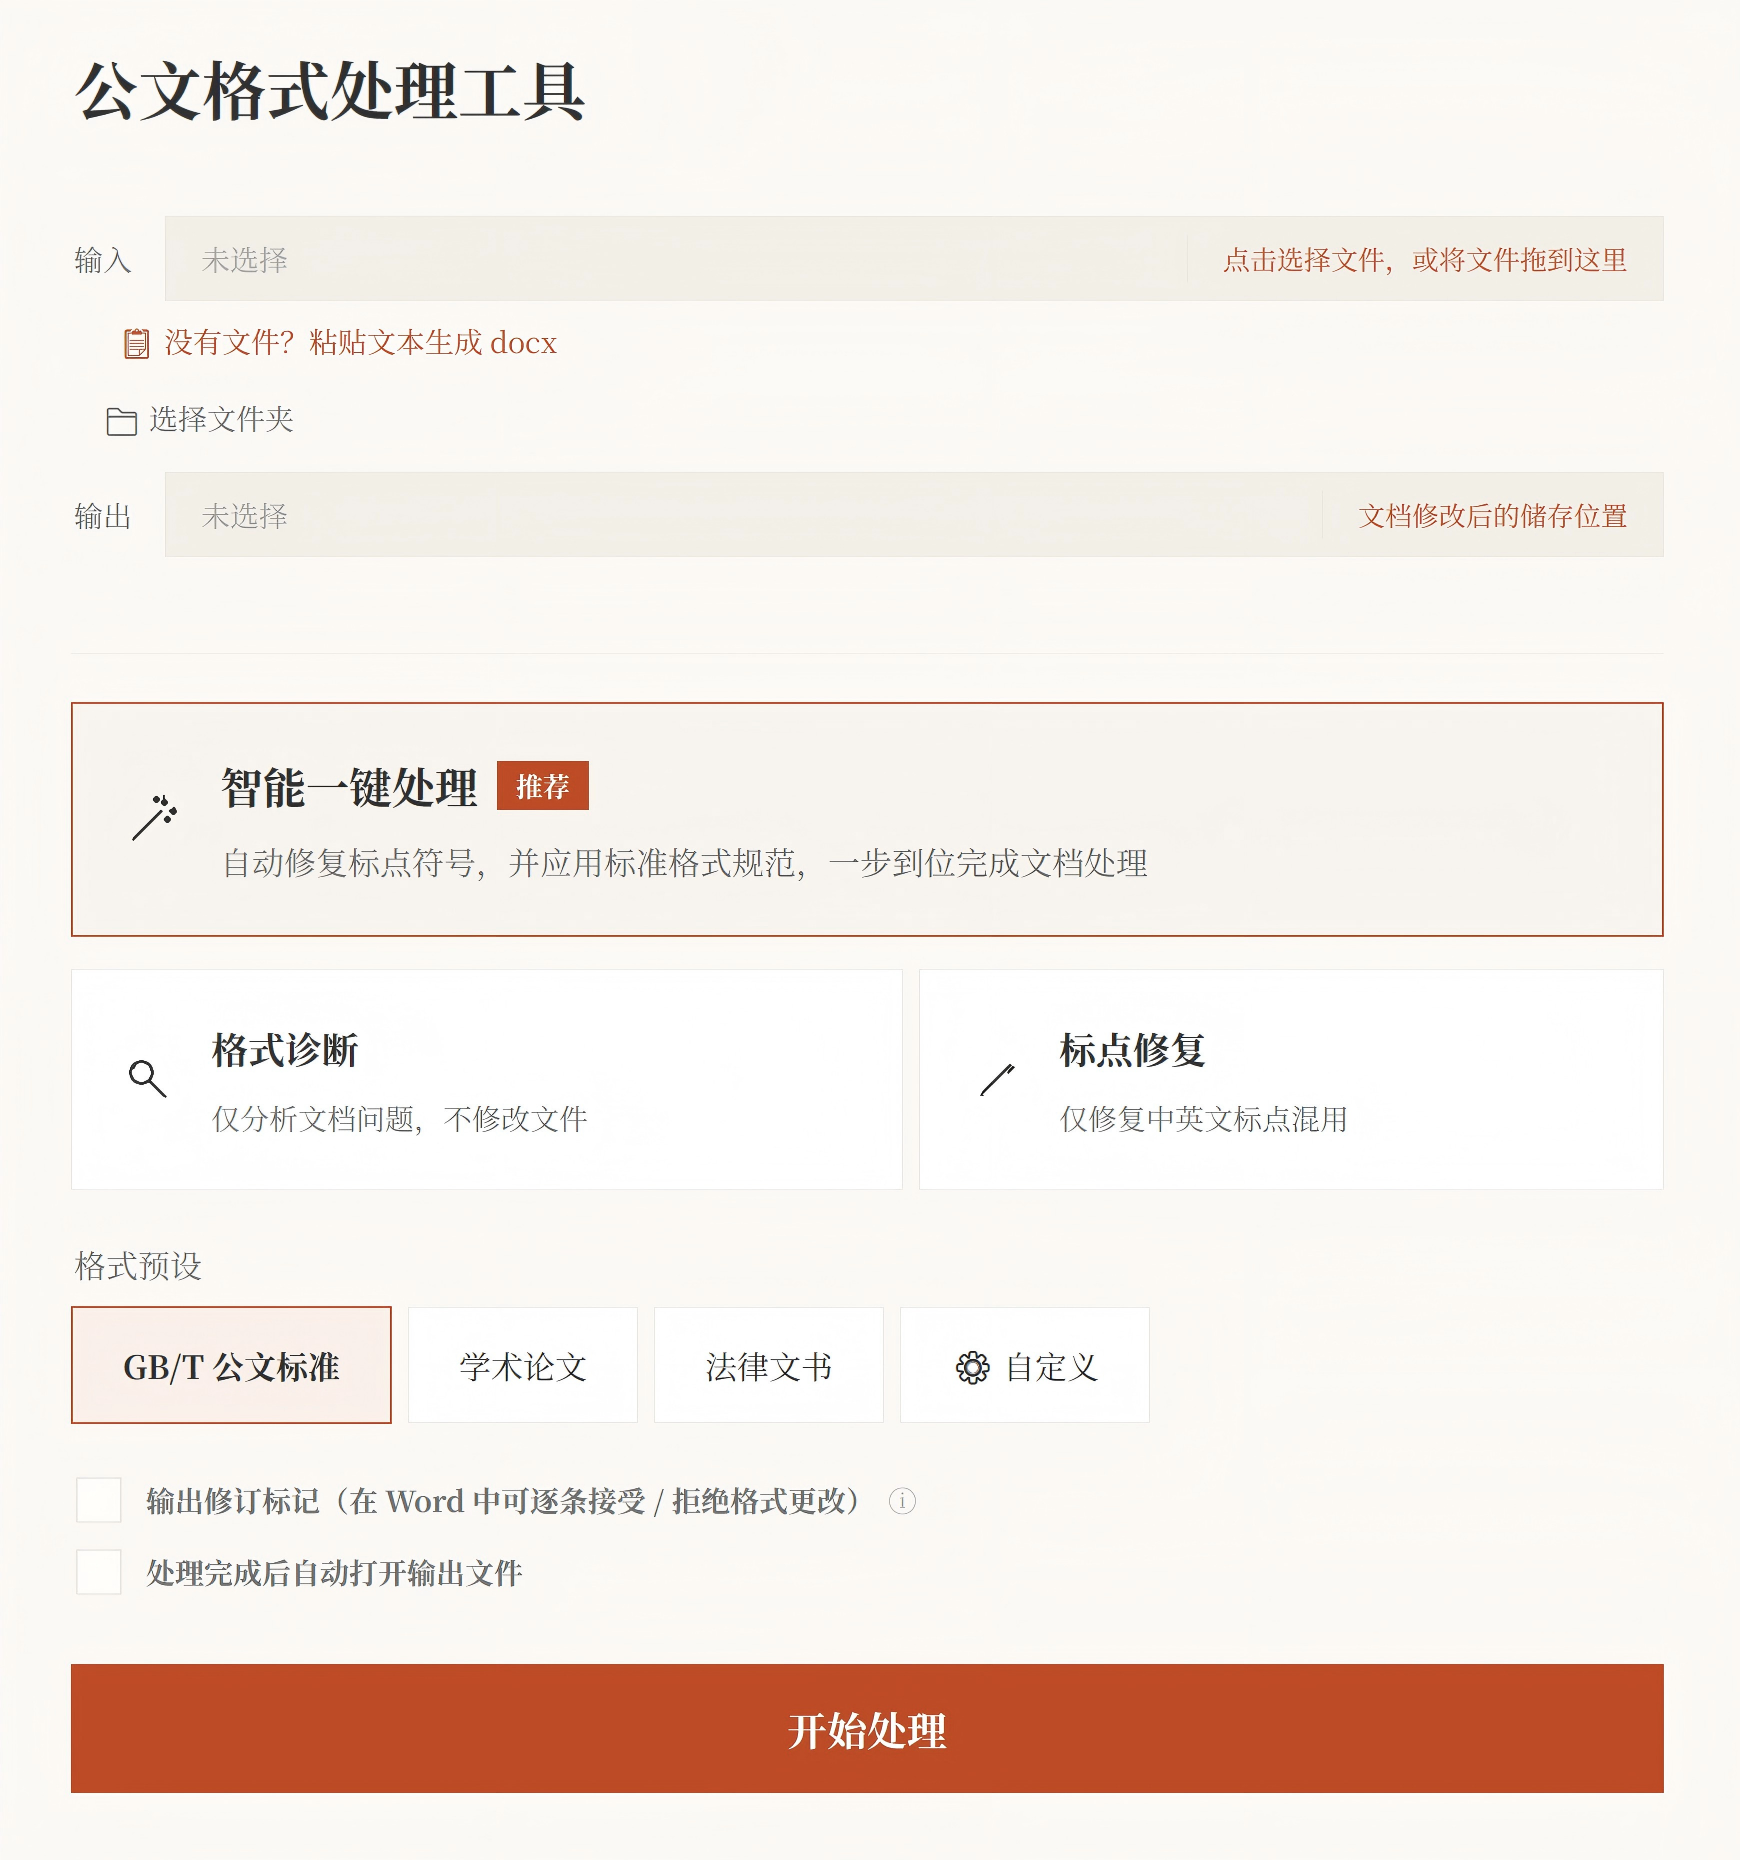
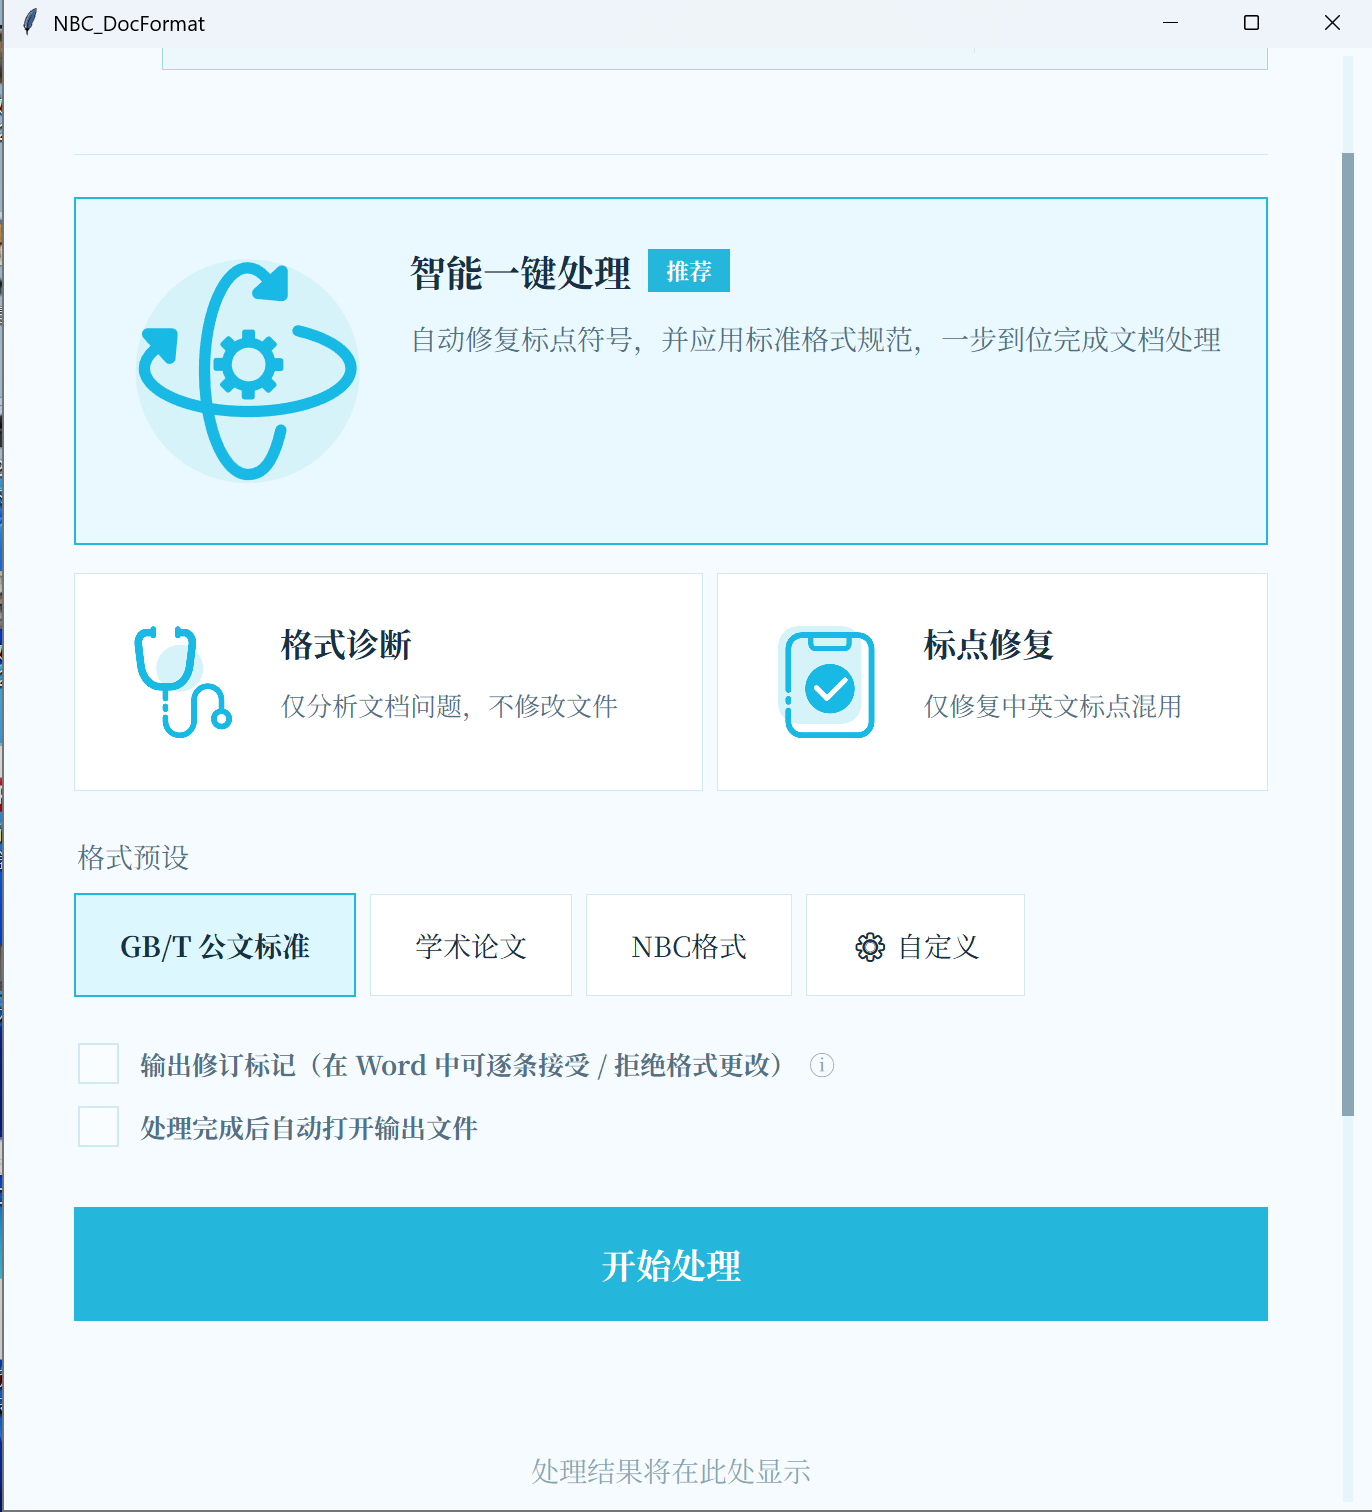
Update README images

diff --git a/README_EN.md b/README_EN.md
@@ -3,7 +3,7 @@
 A local Word document formatting tool for Chinese official-document workflows. It supports one-click processing, format diagnosis, punctuation repair, and configurable formatting presets.
 
 <p align="center">
-  <img src="assets/screenshot.png" alt="NBC_DocFormat screenshot" width="900">
+  <img src="assets/imageforgithub.png" alt="NBC document format processor" width="900">
 </p>
 
 <p align="center">
@@ -33,6 +33,12 @@ Current changes include:
 - Punctuation repair checks the `·` character and applies the required font handling
 - Feature-card images and the UI theme are updated to a blue style
 - Four client builds are provided: Windows 10/11, Windows 7/8 compatible, Linux x86_64, and Linux ARM64
+
+## Interface Preview
+
+<p align="center">
+  <img src="assets/screenshot.png" alt="NBC_DocFormat interface screenshot" width="900">
+</p>
 
 ## Client Builds
 

diff --git a/README.md b/README.md
@@ -3,7 +3,7 @@
 面向 Word 公文材料的本地格式处理工具，支持一键处理、格式诊断、标点修复和可配置格式预设。
 
 <p align="center">
-  <img src="assets/screenshot.png" alt="NBC_DocFormat截图" width="900">
+  <img src="assets/imageforgithub.png" alt="NBC公文格式处理器" width="900">
 </p>
 
 <p align="center">
@@ -33,6 +33,12 @@ NBC_DocFormat 用于处理 `.docx` 公文材料中的常见格式问题，包括
 - 标点修复增加对字符 `·` 的检测和字体处理
 - 功能按钮插图和界面主题调整为蓝色风格
 - 提供 Windows 10/11、Windows 7/8 兼容、Linux x86_64、Linux ARM64 四类客户端
+
+## 界面预览
+
+<p align="center">
+  <img src="assets/screenshot.png" alt="NBC_DocFormat软件界面截图" width="900">
+</p>
 
 ## 核心能力
 
